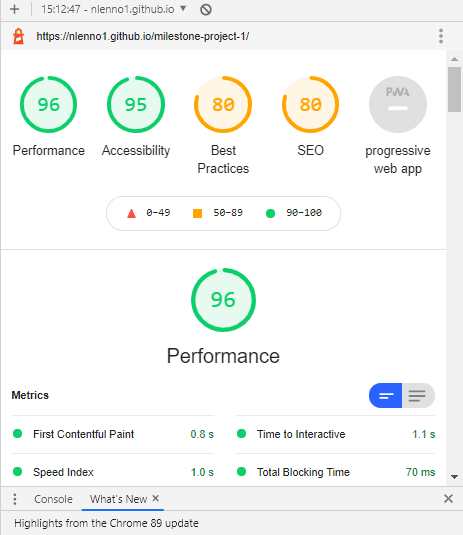
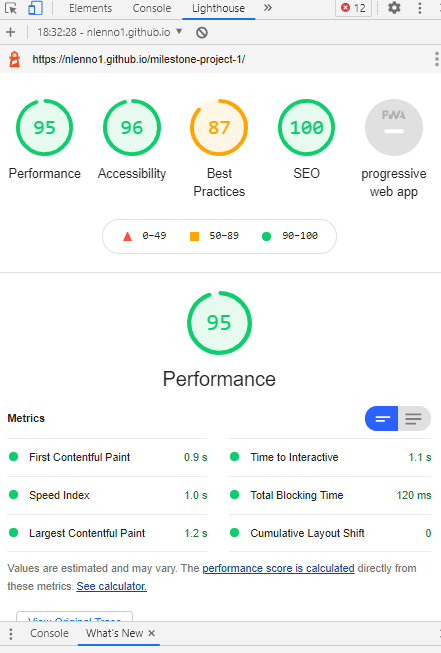
doc: uploading the latest Lighthouse Results to README.md

diff --git a/README.md b/README.md
@@ -464,7 +464,7 @@ The testing tools I used were:
 - [CSS Validator](https://jigsaw.w3.org/css-validator/) - ![CSS Validator Results](assets/readme-assets/w3-css-validator-results.png)
 - [A11y](https://color.a11y.com/) to test site colors - ![A11y Results](assets/readme-assets/a11y-test-results.png)
 - [Google Mobile-Friendly Test](https://search.google.com/test/mobile-friendly) - ![Google Mobile Results](assets/readme-assets/google-mobile-test-results.png)
-- [LightHouse](https://developers.google.com/web/tools/lighthouse) - After testing with Lighthouse I added Meta Description data to each page and changed the Modal link to a button to remove a crawling error. These are the results after those changes. ![Lighthouse Report](assets/readme-assets/lighthouse-reportpng.png)
+- [LightHouse](https://developers.google.com/web/tools/lighthouse) - After testing with Lighthouse I added Meta Description data to each page and changed the Modal link to a button to remove a crawling error and improve SEO. I also added the rel="noopener" class to all links opening outside the website to improve security. These are the results after those changes. ![Lighthouse Report](assets/readme-assets/lighthouse-reportpng.png)
 
 ### Results and outcomes
 
